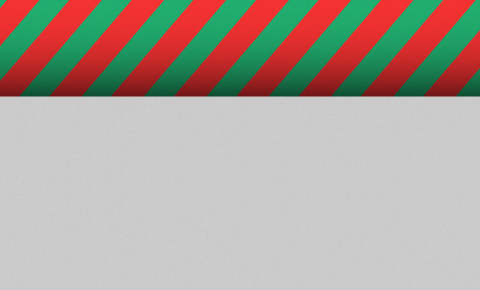
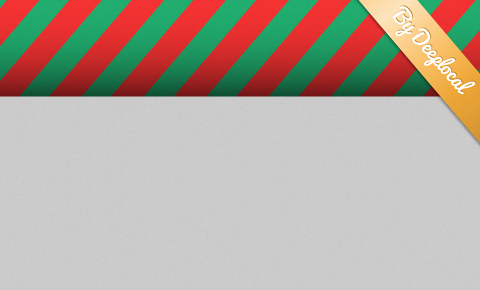
ribbon on iphone

Changed region(s): [[0.75, 0.0, 1.0, 0.4966]]

diff --git a/public/css/iphone.css b/public/css/iphone.css
@@ -43,3 +43,13 @@ div#prompt img.thebar {
 	width: 380px;
 	float: none;
 }
+
+a#dl {
+	display: block;
+	width: 80px;
+	height: 100px;
+	z-index: 10;
+	position: absolute;
+	top: 0;
+	right: 0;
+}
